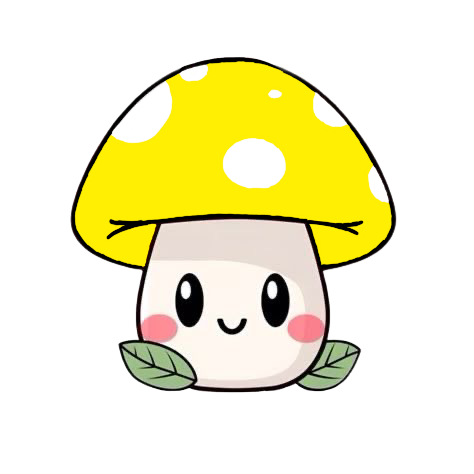
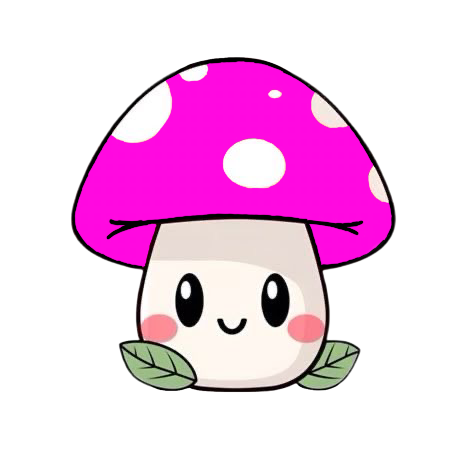
parancskezelok and rovar changes

diff --git a/jatek/src/main/java/bughunters/Egyeb/Parancskezelok.java b/jatek/src/main/java/bughunters/Egyeb/Parancskezelok.java
@@ -2,13 +2,6 @@ package bughunters.Egyeb;
 
 import java.awt.Color;
 import java.awt.image.BufferedImage;
-
-import bughunters.Gombafaj.*;
-import bughunters.Tekton.*;
-import bughunters.Rovar.*;
-import bughunters.Egyeb.*;
-import bughunters.Grafika.*;
-
 import java.io.BufferedReader;
 import java.io.File;
 import java.io.InputStreamReader;
@@ -20,6 +13,27 @@ import java.util.List;
 
 import javax.imageio.ImageIO;
 import javax.swing.SwingUtilities;
+
+import bughunters.Gombafaj.Benito;
+import bughunters.Gombafaj.Gombafaj;
+import bughunters.Gombafaj.Gombafonal;
+import bughunters.Gombafaj.Gombatest;
+import bughunters.Gombafaj.Gyorsito;
+import bughunters.Gombafaj.Lassito;
+import bughunters.Gombafaj.Osztodo;
+import bughunters.Gombafaj.Spora;
+import bughunters.Gombafaj.VagasKeptelenito;
+import bughunters.Grafika.GRovar;
+import bughunters.Grafika.Grafika;
+import bughunters.Grafika.HibaAblak;
+import bughunters.Grafika.NevFajSzin;
+import bughunters.Rovar.Rovar;
+import bughunters.Rovar.rovarAllapot;
+import bughunters.Tekton.Disszolator;
+import bughunters.Tekton.Infinator;
+import bughunters.Tekton.Monotekton;
+import bughunters.Tekton.Puritekton;
+import bughunters.Tekton.Tekton;
 
 /**
  * A parancsok állapotát reprezentáló enum
@@ -115,19 +129,19 @@ public class Parancskezelok {
         try {
             switch(gf.getNev()) {
                 case "Csiperke gomba":
-                    img = ImageIO.read(new File(""));
+                    img = ImageIO.read(new File("kepek/gyorsito.PNG"));
                     break;
                 case "Foltos püffeteg":
-                    img = ImageIO.read(new File(""));
+                    img = ImageIO.read(new File("kepek/osztodo.PNG"));
                     break;
                 case "Vargánya gomba":
-                    img = ImageIO.read(new File(""));
+                    img = ImageIO.read(new File("kepek/lassito.PNG"));
                     break;
                 case "Légyölő galóca":
-                    img = ImageIO.read(new File(""));
+                    img = ImageIO.read(new File("kepek/benito.PNG"));
                     break;
                 case "Szegfűgomba":
-                    img = ImageIO.read(new File(""));
+                    img = ImageIO.read(new File("kepek/vagasGatlo.PNG"));
                     break;
                 default:
             }
@@ -143,15 +157,15 @@ public class Parancskezelok {
         Color LIGHTBROWN = new Color(172, 86, 0);
         try {
             if (szin == Color.RED) {
-                return ImageIO.read(new File(""));
+                return ImageIO.read(new File("kepek\rovar4.PNG"));
             } else if (szin == Color.ORANGE) {
-                return ImageIO.read(new File(""));
+                return ImageIO.read(new File("kepek\rovar1.PNG"));
             } else if (szin == Color.MAGENTA) {
-                return ImageIO.read(new File(""));
-            } else if (szin == BROWN) {
-                return ImageIO.read(new File(""));
-            }else if (szin == LIGHTBROWN) {
-                return ImageIO.read(new File(""));
+                return ImageIO.read(new File("kepek\rovar5.PNG"));
+            } else if (szin.equals(BROWN)) {
+                return ImageIO.read(new File("kepek\rovar3.PNG"));
+            }else if (szin.equals(LIGHTBROWN)) {
+                return ImageIO.read(new File("kepek\rovar2.PNG"));
             }
         } catch (Exception e) {
             System.out.println("Nem sikerult betolteni a kepeket");
@@ -237,6 +251,7 @@ public class Parancskezelok {
                 objektumokbolString.put(rovar, ujRovarNev);
 
                 //GRAFIKA HASHMAP BERAKÁSA
+                grafika.getRovarok().put(rovar, grafRovar);
             } catch (Exception e) {
                 HibaAblak uzenet = new HibaAblak("Nem sikerult létrehozni a Rovart");
                 return false;
@@ -258,22 +273,6 @@ public class Parancskezelok {
         rovaraszok.add(rs);
         objektumok.put(rs.getNev(), rs);
         objektumokbolString.put(rs, rs.getNev());
-
-        /* 
-        //Rovar léterhozása
-        String tektonNeve = parancs.split(" ")[5];
-        char tektonTipus = tektonNeve.charAt(0);
-        Tekton tartozkodas = parancsTektonCast(tektonTipus, tektonNeve);
-        Rovar ujRovar = new Rovar(tartozkodas,rovarasz);
-
-        //Rovar kezelése
-        rovarasz.addRovar(ujRovar);
-        String ujRovarNev = ujRovarNev(); //rovar neve
-        objektumok.put(ujRovarNev, ujRovar);
-        objektumokbolString.put(ujRovar, ujRovarNev);
-
-        output.println("Hozzaadva "+rovarasz.getNev() +" rovarasz "+ujRovarNev);
-        */
     }    
 
     /**

diff --git a/jatek/src/main/java/bughunters/Rovar/Rovar.java b/jatek/src/main/java/bughunters/Rovar/Rovar.java
@@ -1,8 +1,9 @@
 package bughunters.Rovar;
 
-import bughunters.Tekton.*;
-import bughunters.Egyeb.*;
-import bughunters.Gombafaj.*;
+import bughunters.Egyeb.Rovarasz;
+import bughunters.Gombafaj.Gombafonal;
+import bughunters.Gombafaj.Spora;
+import bughunters.Tekton.Tekton;
 
 public class Rovar {
     private Tekton tartozkodas;
@@ -170,7 +171,6 @@ public class Rovar {
         //System.out.println("Meghívódik a Rovar osztodik metódusa.");
 
         Rovar ujRovar = new Rovar(this.tartozkodas, this.rs);
-        ujRovar.szin = this.szin;
         ujRovar.allapot = rovarAllapot.Alap;
         ujRovar.allapotIdeje = 0;
         rs.addRovar(ujRovar);
